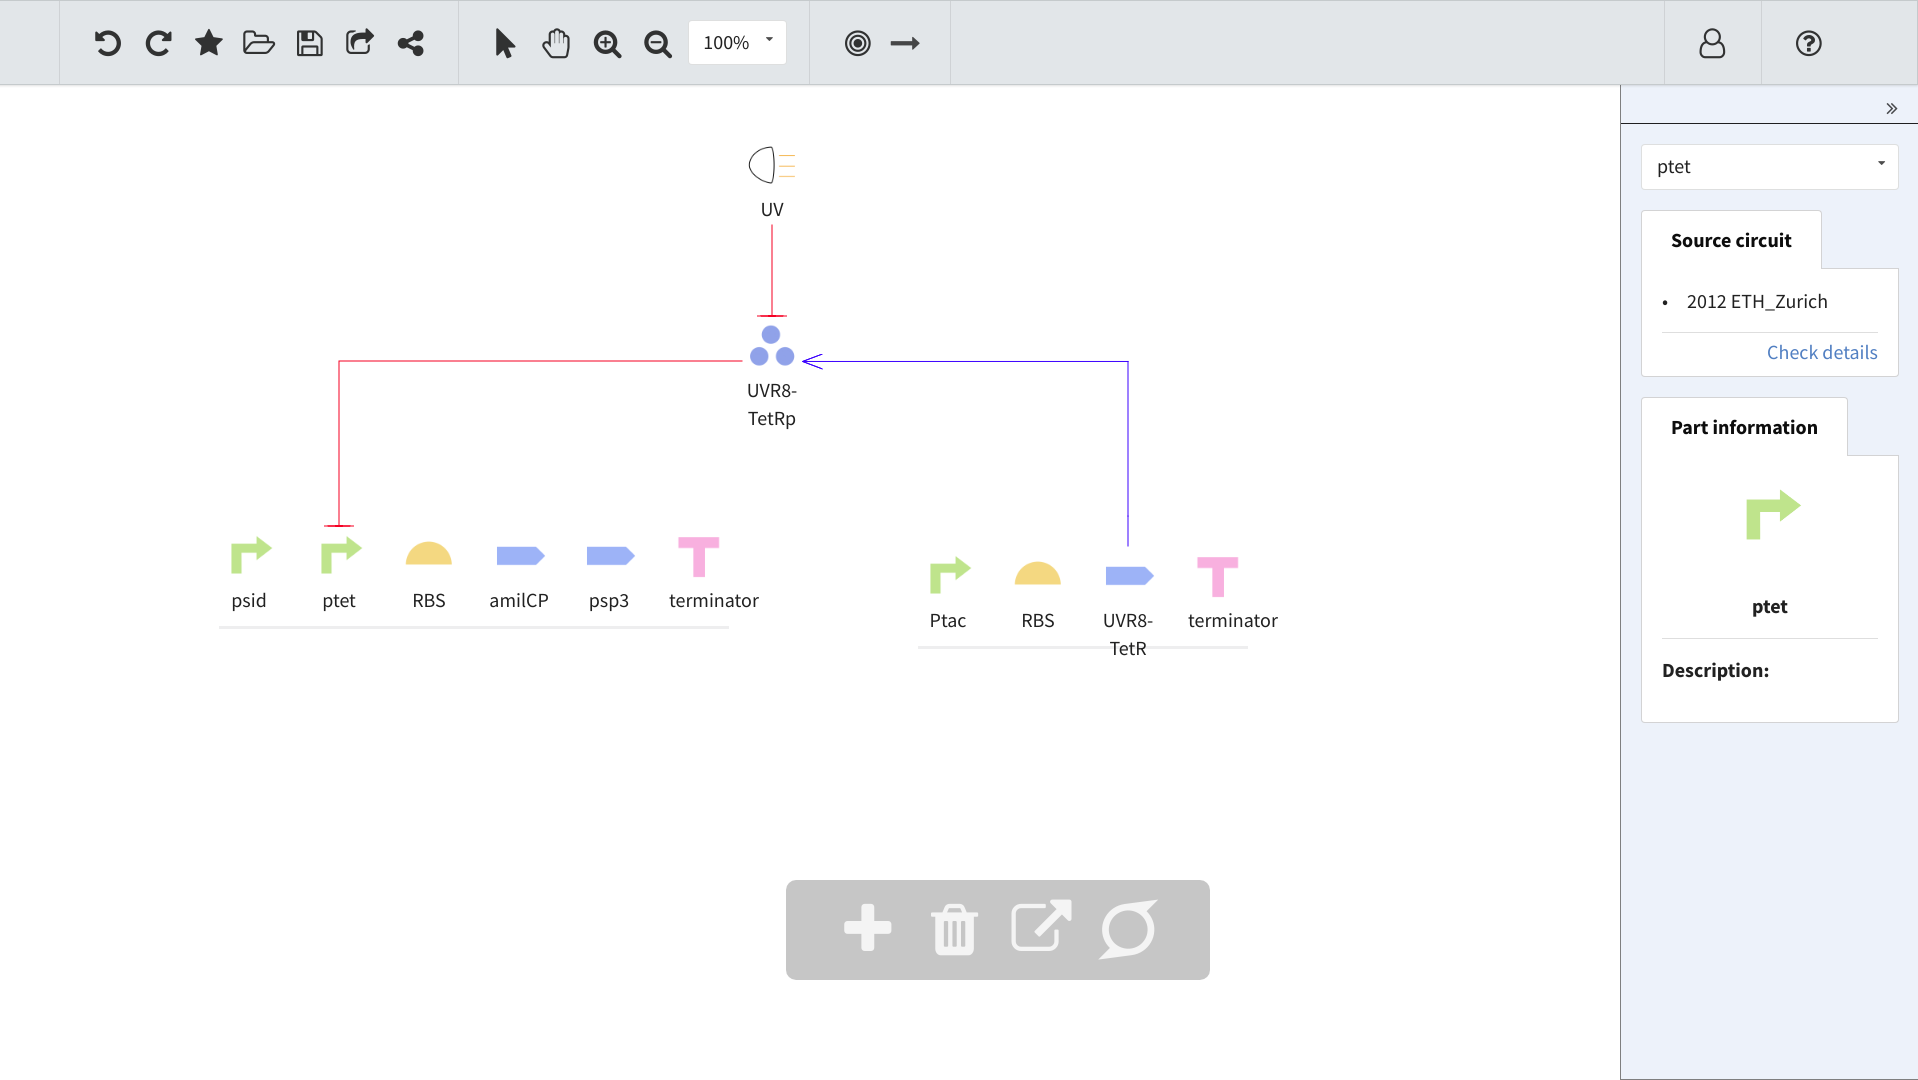
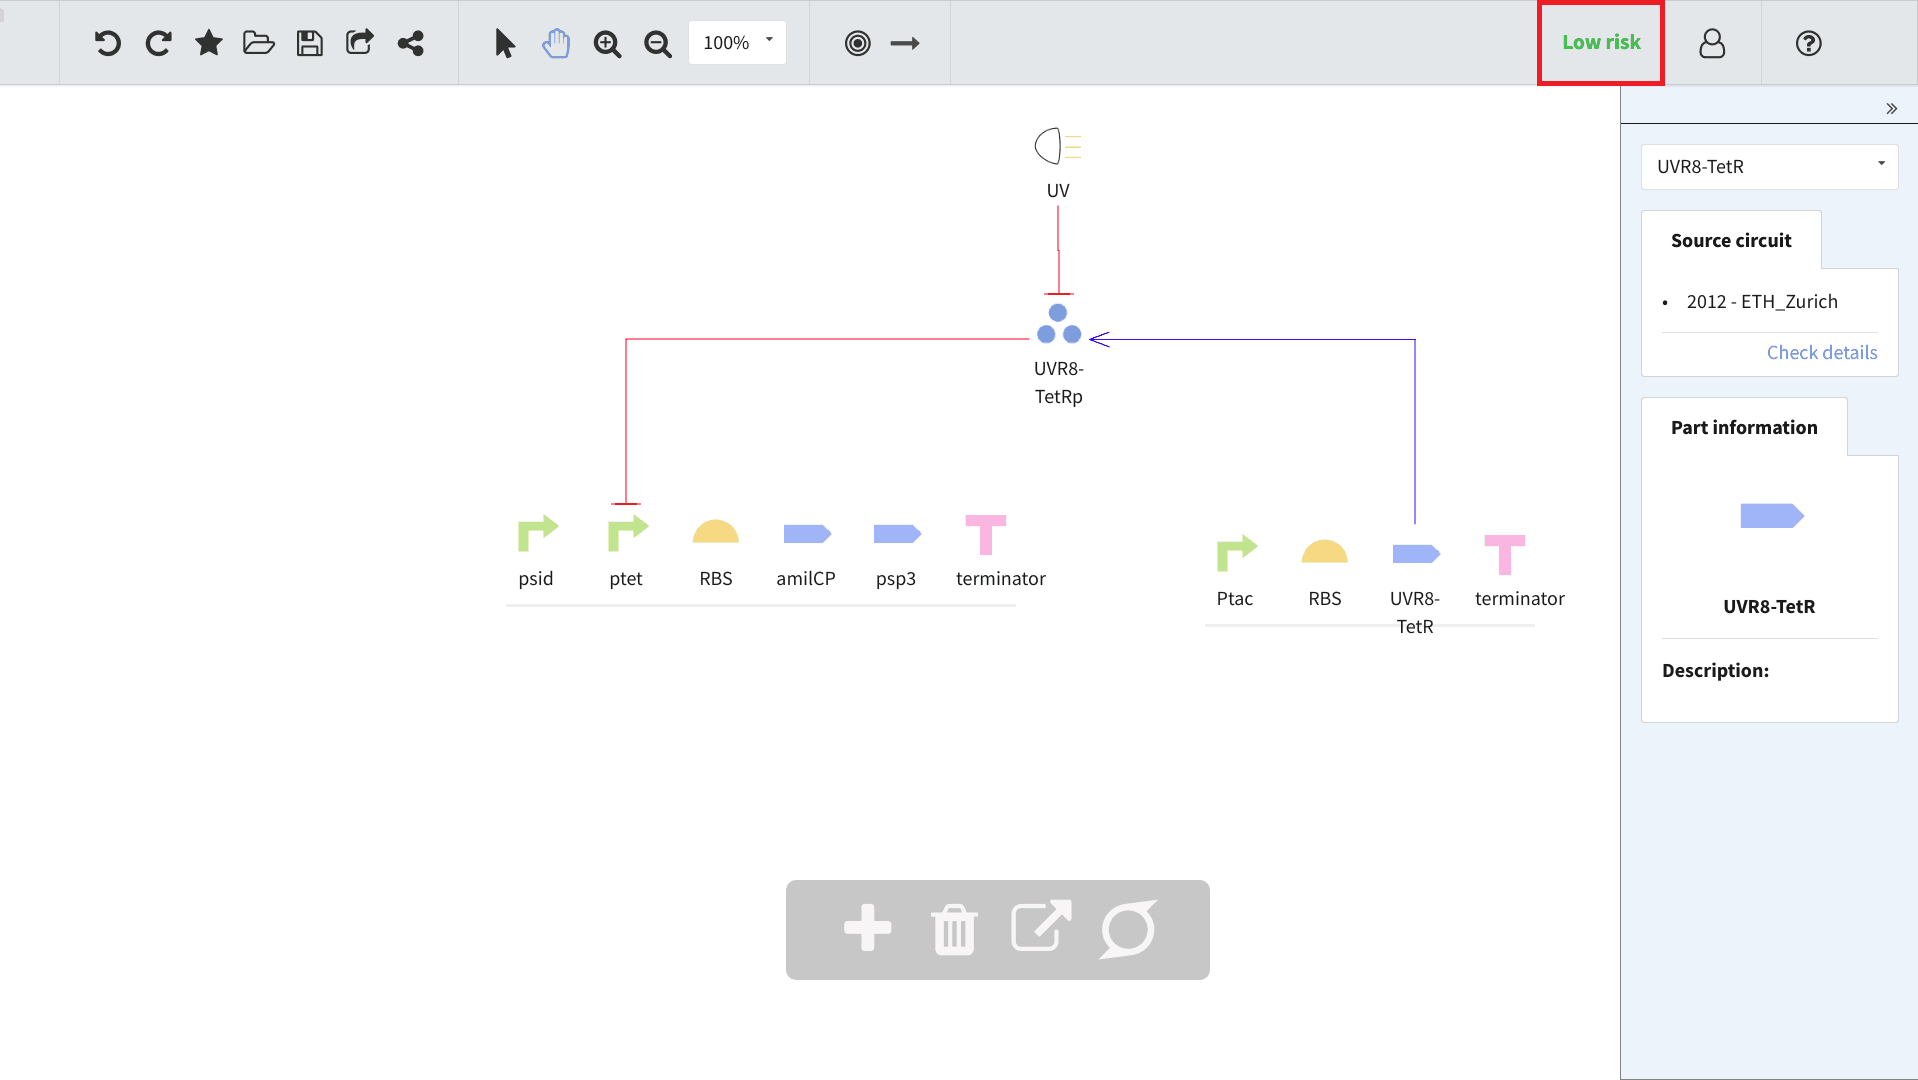
update project picture

diff --git a/src/html/project.html b/src/html/project.html
@@ -396,7 +396,7 @@
         <img src="../images/project/T--SYSU-Software--jietu4.png" alt="not provide" class="centered blue-shadowed screen-crop">
 
         <p>
-          <span class="bold">5. Edit the circuit:</span> We deleted extra part of ETH_Zurich, because we just decided to use the UV sensor.
+          <span class="bold">5. Edit the circuit:</span> We deleted extra part of ETH_Zurich, because we just decided to use the UV sensor.The surveillance system shows that the safety level of our circuit is low risk. (Upper right corner)
         </p>
         <img src="../images/project/T--SYSU-Software--uv-design.png" alt="not provide" class="centered blue-shadowed screen-crop">
 
